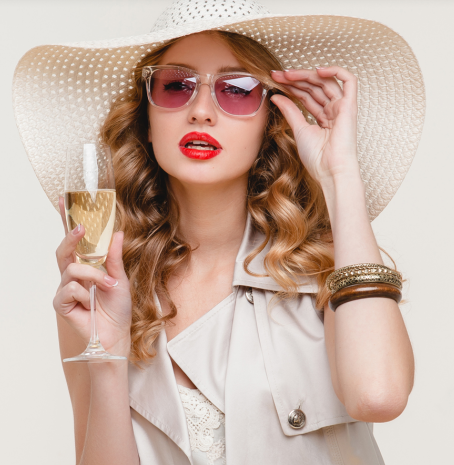
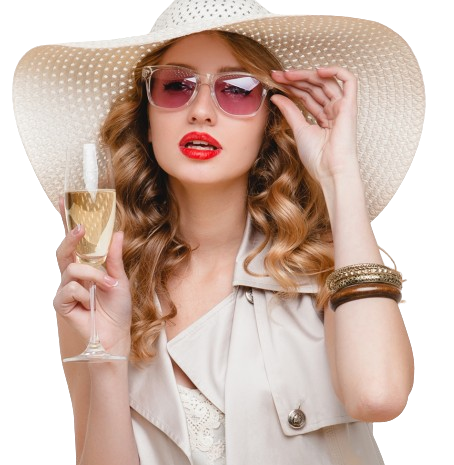
Corrección Secccion 1

Changed region(s): [[0.5551, 0.0, 1.0, 1.0], [0.0, 0.0, 0.4009, 1.0]]

diff --git a/volupa.css b/volupa.css
@@ -67,7 +67,7 @@ header {
     justify-content: center;
     height: 80vh;
     gap: 40px;
-    background-color: #f7f5f3;
+    background-color: #f3eee9;
 
     aside {
         display: flex;
@@ -109,6 +109,19 @@ header {
         text-decoration: none;
         display: inline-block;
         border: none;
+    }
+
+    > figure {
+        height: 100%;
+        display: flex;
+        align-items: flex-end;
+        margin: 0;
+
+        img {
+            height: 95%;
+            width: auto;
+            object-fit: contain;
+        }
     }
 }
 
